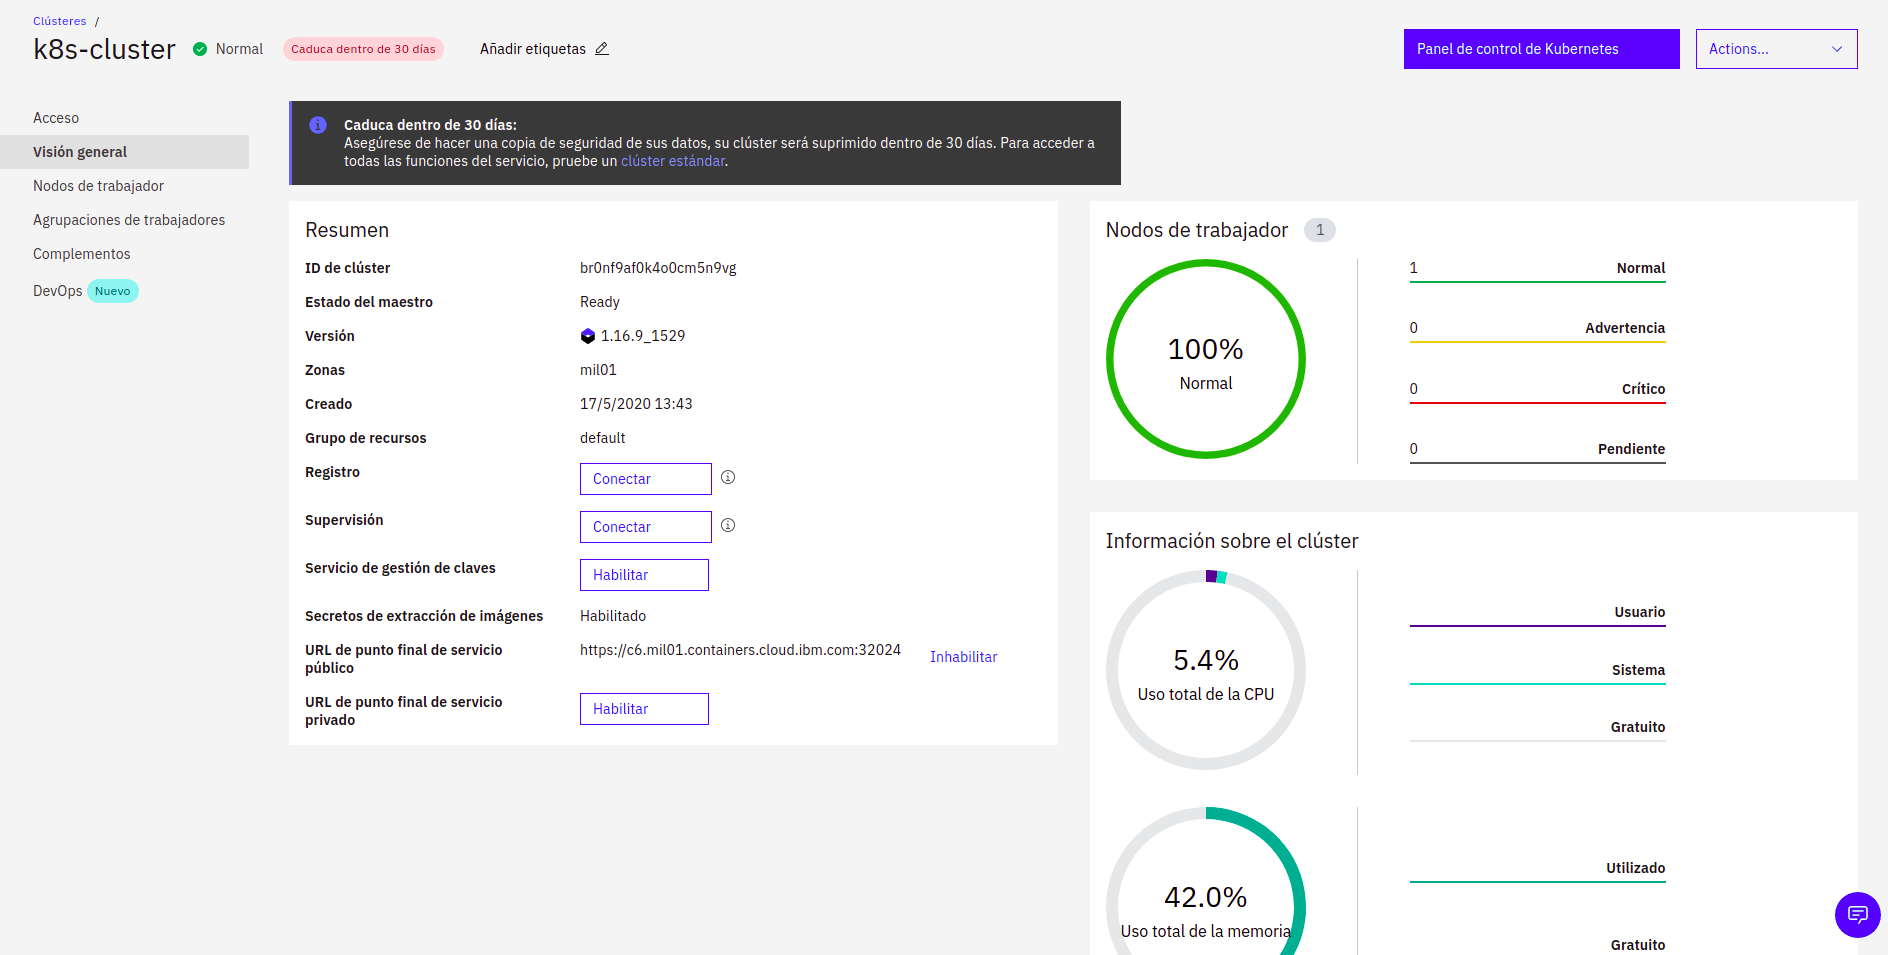
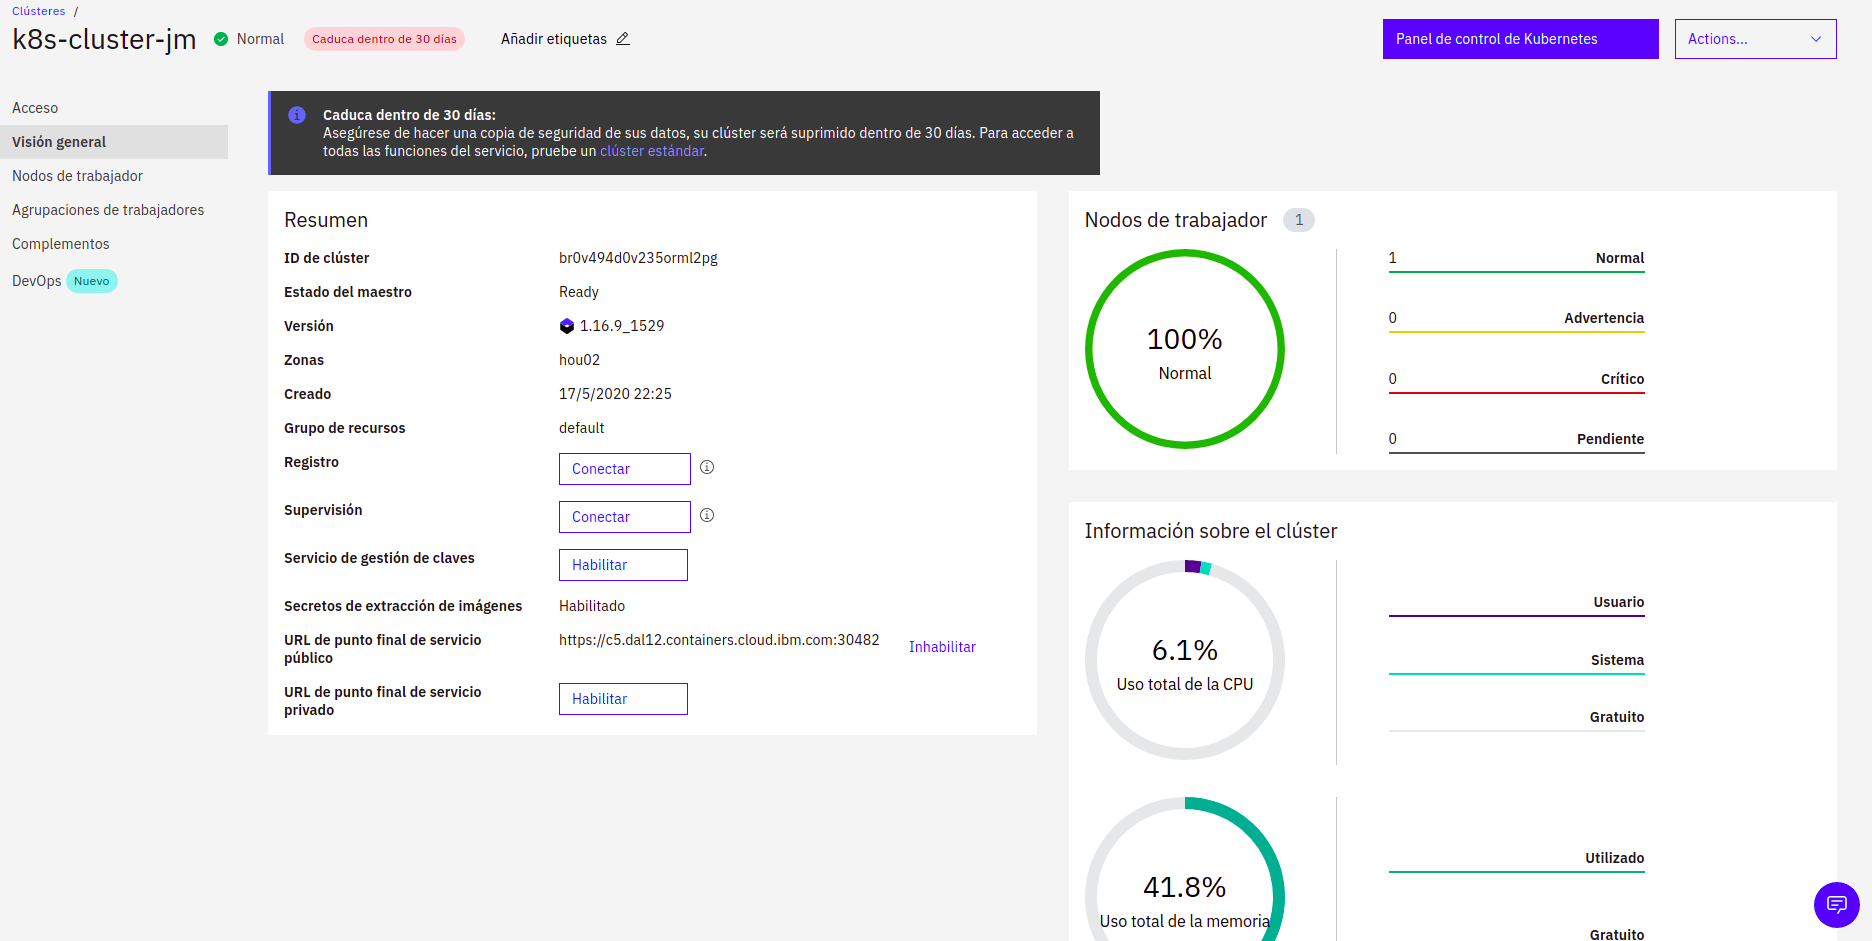
Update README.md

diff --git a/README.md b/README.md
@@ -2,6 +2,12 @@
 
 Example of how use Istio and IBM Cloud Kubernetes Service.
 
+### Create Kubernetes cluster in IBM Cloud
+
+![Screenshot](prtsc/Istio-K8S-Cloud-3.png)
+
+![Screenshot](prtsc/Istio-K8S-Cloud-3.1.png)
+
 ### Log in to the IBM Cloud CLI. If you have a federated account, include the --sso flag
 
 jmendoza@jmendoza-ThinkPad-T420:~$ ibmcloud login --sso
@@ -12,15 +18,11 @@ The service plug-in is displayed in the results as container-service/kubernetes-
 
 ![Screenshot](prtsc/Istio-K8S-Cloud-1.png)
 
-### Create Kubernetes cluster in IBM Cloud
-
-![Screenshot](prtsc/Istio-K8S-Cloud-3.png)
-
 ### Set the context for your cluster in your CLI
 
 jmendoza@jmendoza-ThinkPad-T420:~$ ibmcloud ks clusters
 
-jmendoza@jmendoza-ThinkPad-T420:~$ ibmcloud ks cluster config --cluster k8s-cluster
+jmendoza@jmendoza-ThinkPad-T420:~$ ibmcloud ks cluster config --cluster k8s-cluster-jm
 
 ![Screenshot](prtsc/Istio-K8S-Cloud-4.png)
 
